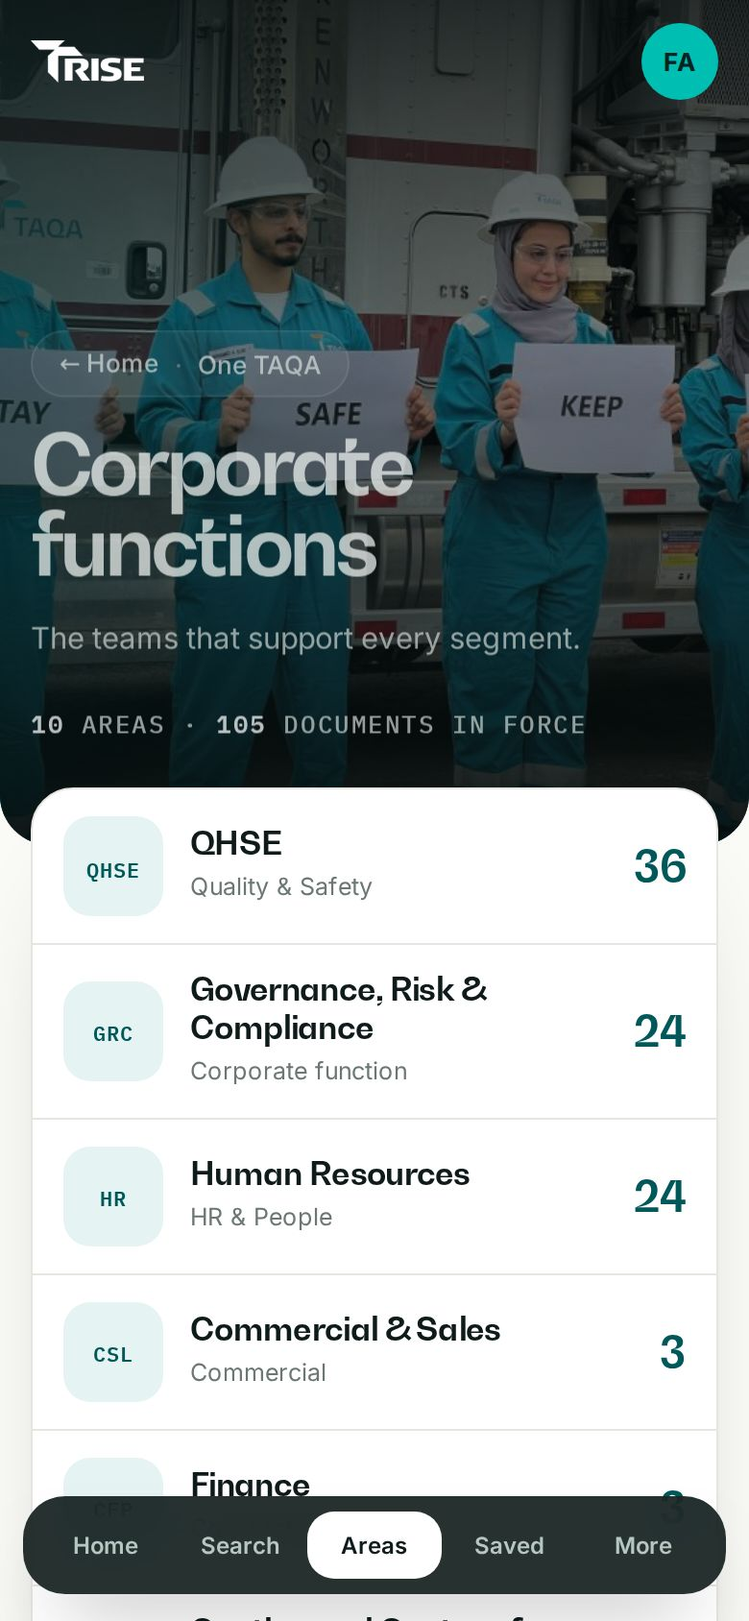
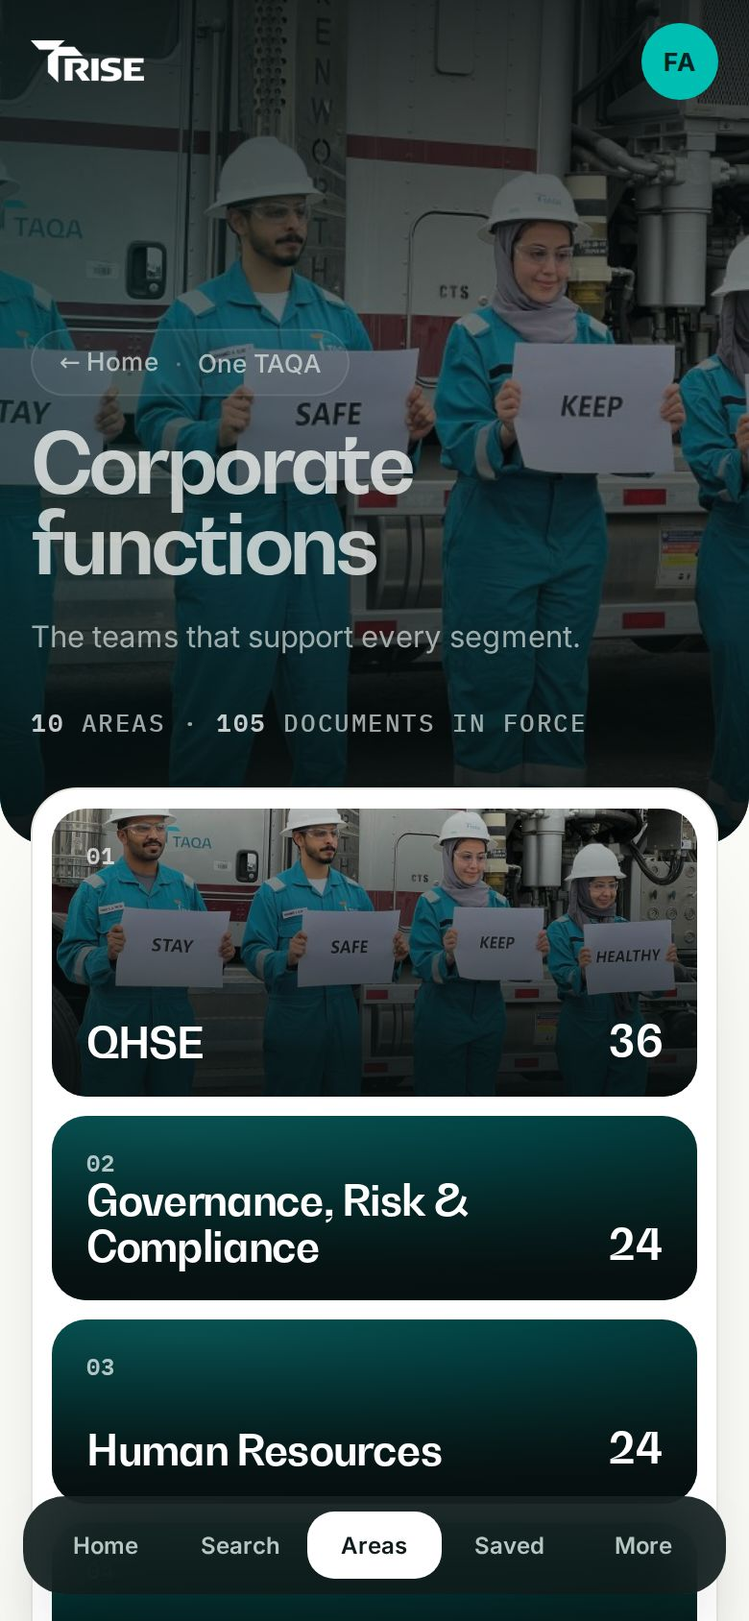
RISE: family pages as a showcase, large list with one photo that changes per area (exploration)
Claude-Session: https://claude.ai/code/session_01SsmAy64nNwXThAWKPA8c7n

diff --git a/docs/design/rise-exploration/register/pages/family-segments.html b/docs/design/rise-exploration/register/pages/family-segments.html
@@ -33,14 +33,72 @@
  .fl.big a{grid-template-columns:1fr auto;gap:12px}.fl.big .th{grid-column:1/-1;width:100%;height:150px}
  .oth{margin-top:30px}
 }
+
+.sx{position:relative;z-index:3;display:grid;grid-template-columns:minmax(0,1fr) minmax(0,1.05fr);gap:40px;margin-top:-36px;padding:34px;border-radius:30px;background:#fff;border:1px solid var(--line);box-shadow:0 30px 60px -40px rgba(14,27,26,.45)}
+.sl{display:flex;flex-direction:column;justify-content:center}
+.sl .it{position:relative;display:grid;grid-template-columns:44px minmax(0,1fr) auto;align-items:baseline;gap:14px;padding:13px 4px;border-bottom:1px solid var(--line);color:#A9B2AF;transition:color .3s,padding .3s}
+.sl .it:last-child{border-bottom:0}
+.sl .i{font:600 12px var(--mono);letter-spacing:.06em;color:#C5CCC9;transition:color .3s}
+.sl b{font:700 clamp(24px,2.3vw,34px)/1.1 var(--display);letter-spacing:-.03em}
+.sl .c{justify-self:end;font:600 14px var(--mono);color:#C5CCC9;transition:color .3s}
+.sl .you{display:inline-block;margin-left:12px;vertical-align:6px;padding:4px 10px;border-radius:999px;background:var(--tealbg);color:var(--teal);font:600 11.5px var(--ui)}
+.sl .it.on{color:var(--ink);padding-left:18px}.sl .it.on .i{color:var(--teal)}.sl .it.on .c{color:var(--teal)}
+.sl .it::before{content:"";position:absolute;left:0;top:50%;width:6px;height:6px;margin-top:-3px;border-radius:50%;background:var(--spark);opacity:0;transform:scale(.4);transition:.3s}
+.sl .it.on::before{opacity:1;transform:none}
+.spn{position:sticky;top:24px;align-self:start;height:640px;border-radius:24px;overflow:hidden;background:#0E1B1A}
+.pn{position:absolute;inset:0;opacity:0;transition:opacity .6s ease;color:#fff}
+.pn.on{opacity:1}
+.pn .ph{position:absolute;inset:0;background:center/cover;transform:scale(1.12);transition:transform 7s cubic-bezier(.2,.6,.2,1)}
+.pn.on .ph{transform:scale(1.02)}
+.pn::after{content:"";position:absolute;inset:0;background:linear-gradient(to bottom,rgba(7,13,13,.25),rgba(7,13,13,.15) 35%,rgba(7,13,13,.92))}
+.pn.np{background:radial-gradient(120% 90% at 20% 10%,#0A6B6C,#00585A 40%,#06302F)}
+.pn.np::after{background:linear-gradient(to bottom,rgba(7,13,13,0) 40%,rgba(7,13,13,.55))}
+.pn .ty{position:absolute;left:30px;top:20px;font:700 170px/1 var(--display);letter-spacing:-.06em;color:rgba(255,255,255,.12)}
+.pn .pc{position:absolute;z-index:2;left:30px;right:30px;bottom:28px;transform:translateY(12px);transition:transform .7s cubic-bezier(.2,.7,.2,1)}
+.pn.on .pc{transform:none}
+.pn .tg{display:inline-block;padding:6px 12px;border-radius:999px;background:rgba(255,255,255,.14);backdrop-filter:blur(10px);font:600 11.5px var(--mono);letter-spacing:.06em;text-transform:uppercase}
+.pn h2{margin-top:14px;font:700 48px/1 var(--display);letter-spacing:-.04em}
+.pn p{margin-top:12px;max-width:44ch;color:#CFDAD7;font-size:15.5px;line-height:1.5}
+.pn .ft{display:flex;align-items:center;gap:16px;margin-top:22px;padding-top:18px;border-top:1px solid rgba(255,255,255,.18)}
+.pn .ft span{font:500 13px var(--mono);letter-spacing:.04em;color:#CFDAD7}.pn .ft b{color:#fff;font-size:16px}
+.pn .ft a{margin-left:auto;padding:12px 20px;border-radius:999px;background:#fff;color:var(--ink);font:600 14px var(--ui)}
+@media (prefers-reduced-motion:reduce){.pn,.pn .ph,.pn .pc,.sl .it{transition:none}}
+@media (max-width:900px){
+ .sx{display:block;padding:10px;border-radius:24px;margin-top:-30px}
+ .spn{display:none}
+ .sl{gap:10px}
+ .sl .it{grid-template-columns:auto 1fr auto;align-items:end;min-height:150px;padding:16px 18px;border:0;border-radius:18px;overflow:hidden;color:#fff;isolation:isolate;background:var(--img) center/cover,#0E1B1A}
+ .sl .it::after{content:"";position:absolute;inset:0;z-index:-1;background:linear-gradient(to top,rgba(7,13,13,.9) 15%,rgba(7,13,13,.25))}
+ .sl .it.np{min-height:96px;background:radial-gradient(120% 90% at 20% 10%,#0A6B6C,#00585A 45%,#06302F)}
+ .sl .it::before{display:none}
+ .sl .it.on{padding-left:18px;color:#fff}
+ .sl .i{position:absolute;top:14px;left:18px;color:rgba(255,255,255,.7)}.sl .it.on .i{color:rgba(255,255,255,.7)}
+ .sl b{grid-column:1/3;font-size:22px;color:#fff}
+ .sl .you{position:absolute;top:12px;right:14px;background:var(--teal2);color:#062221}
+ .sl .c,.sl .it.on .c{grid-column:3;grid-row:1;color:#fff;font:700 22px var(--display)}
+}
 </style></head><body>
 <header class="mx fh"><div class="bg" style="background-image:url(../img/seg-wireline.jpg)"></div>
 <div class="w hn"><a href="bold-mix.html"><img src="../../kit/brand/rise-lockup-header.png" alt="RISE"></a><nav class="links"><a href="bold-mix.html">Home</a><a class="on" href="areas.html">Areas</a><a href="saved.html">Saved</a><a href="ask.html">Ask</a><a href="glossary.html">Glossary</a></nav>
 <span class="sp"></span><a class="up" href="upload.html">Upload</a><span class="av">FA</span></div>
 <div class="w hc"><a class="crumbp" href="bold-mix.html#all">← Home <i>·</i> One TAQA</a>
 <h1>Operational segments</h1><p class="d">The service lines that deliver the work in the field.</p><p class="m"><b>11</b> areas · <b>212</b> documents in force</p></div></header>
-<main class="w"><div class="fl"><a href="seg-coiled-tubing.html"><span class="th" style="background-image:url(../img/seg-coiled-tubing.jpg)"></span><span><b>Coiled Tubing<span class="you">Your area</span></b><span class="s">Operations · CTSS</span></span><span class="n"><b>23</b><span>in force</span></span></a><a href="seg-well-safety.html"><span class="th" style="background-image:url(../img/seg-well-safety.jpg)"></span><span><b>Safety Services</b><span class="s">Safety Critical · WSS</span></span><span class="n"><b>41</b><span>in force</span></span></a><a href="seg-drilling.html"><span class="th" style="background-image:url(../img/seg-drilling.jpg)"></span><span><b>Drilling Services</b><span class="s">Drilling Ops · DSS</span></span><span class="n"><b>34</b><span>in force</span></span></a><a href="seg-fracturing.html"><span class="th" style="background-image:url(../img/seg-fracturing.jpg)"></span><span><b>Fracturing</b><span class="s">Stimulation · FS</span></span><span class="n"><b>31</b><span>in force</span></span></a><a href="seg-inspection.html"><span class="th" style="background-image:url(../img/seg-inspection.jpg)"></span><span><b>Inspection</b><span class="s">Compliance · WIS</span></span><span class="n"><b>24</b><span>in force</span></span></a><a href="seg-well-testing.html"><span class="th" style="background-image:url(../img/seg-well-testing.jpg)"></span><span><b>Well Testing</b><span class="s">Production Testing · WTS</span></span><span class="n"><b>21</b><span>in force</span></span></a><a href="seg-cementing.html"><span class="th" style="background-image:url(../img/seg-cementing.jpg)"></span><span><b>Cementing</b><span class="s">Well Construction · CMT</span></span><span class="n"><b>15</b><span>in force</span></span></a><a href="seg-wireline.html"><span class="th" style="background-image:url(../img/seg-wireline.jpg)"></span><span><b>Wireline Services</b><span class="s">Logging · WS</span></span><span class="n"><b>14</b><span>in force</span></span></a><a href="seg-marine-services.html"><span class="th" style="background-image:url(../img/seg-marine-services.jpg)"></span><span><b>Marine Services</b><span class="s">Marine · MS</span></span><span class="n"><b>3</b><span>in force</span></span></a><a href="seg-slickline.html"><span class="th" style="background-image:url(../img/seg-slickline.jpg)"></span><span><b>Slickline</b><span class="s">Logging · SS</span></span><span class="n"><b>3</b><span>in force</span></span></a><a href="seg-well-completions.html"><span class="th" style="background-image:url(../img/seg-well-completions.jpg)"></span><span><b>Well Completions</b><span class="s">Well Operations · WCS</span></span><span class="n"><b>3</b><span>in force</span></span></a></div>
+<main class="w"><div class="sx"><nav class="sl" aria-label="Operational segments"><a class="it on" href="seg-coiled-tubing.html" data-i="0" style="--img:url(../img/seg-coiled-tubing.jpg)"><span class="i">01</span><b>Coiled Tubing<span class="you">Your area</span></b><span class="c">23</span></a><a class="it" href="seg-well-safety.html" data-i="1" style="--img:url(../img/seg-well-safety.jpg)"><span class="i">02</span><b>Safety Services</b><span class="c">41</span></a><a class="it" href="seg-drilling.html" data-i="2" style="--img:url(../img/seg-drilling.jpg)"><span class="i">03</span><b>Drilling Services</b><span class="c">34</span></a><a class="it" href="seg-fracturing.html" data-i="3" style="--img:url(../img/seg-fracturing.jpg)"><span class="i">04</span><b>Fracturing</b><span class="c">31</span></a><a class="it" href="seg-inspection.html" data-i="4" style="--img:url(../img/seg-inspection.jpg)"><span class="i">05</span><b>Inspection</b><span class="c">24</span></a><a class="it" href="seg-well-testing.html" data-i="5" style="--img:url(../img/seg-well-testing.jpg)"><span class="i">06</span><b>Well Testing</b><span class="c">21</span></a><a class="it" href="seg-cementing.html" data-i="6" style="--img:url(../img/seg-cementing.jpg)"><span class="i">07</span><b>Cementing</b><span class="c">15</span></a><a class="it" href="seg-wireline.html" data-i="7" style="--img:url(../img/seg-wireline.jpg)"><span class="i">08</span><b>Wireline Services</b><span class="c">14</span></a><a class="it" href="seg-marine-services.html" data-i="8" style="--img:url(../img/seg-marine-services.jpg)"><span class="i">09</span><b>Marine Services</b><span class="c">3</span></a><a class="it" href="seg-slickline.html" data-i="9" style="--img:url(../img/seg-slickline.jpg)"><span class="i">10</span><b>Slickline</b><span class="c">3</span></a><a class="it" href="seg-well-completions.html" data-i="10" style="--img:url(../img/seg-well-completions.jpg)"><span class="i">11</span><b>Well Completions</b><span class="c">3</span></a></nav><div class="spn" aria-hidden="true"><div class="pn on" data-i="0"><span class="ph" style="background-image:url(../img/seg-coiled-tubing.jpg)"></span><div class="pc"><span class="tg">Operations</span><h2>Coiled Tubing</h2><p>Coiled tubing operations, equipment specifications, and continuous operation field procedures for all CT units.</p>
+  <div class="ft"><span><b>23</b> documents in force</span><a href="seg-coiled-tubing.html">Open Coiled Tubing</a></div></div></div><div class="pn" data-i="1"><span class="ph" style="background-image:url(../img/seg-well-safety.jpg)"></span><div class="pc"><span class="tg">Safety Critical</span><h2>Safety Services</h2><p>Well control procedures, blowout prevention, emergency response plans, pressure management, and safety management systems.</p>
+  <div class="ft"><span><b>41</b> documents in force</span><a href="seg-well-safety.html">Open Safety Services</a></div></div></div><div class="pn" data-i="2"><span class="ph" style="background-image:url(../img/seg-drilling.jpg)"></span><div class="pc"><span class="tg">Drilling Ops</span><h2>Drilling Services</h2><p>Drilling engineering, well planning, rig operations, mud systems, BHA design, and formation evaluation procedures.</p>
+  <div class="ft"><span><b>34</b> documents in force</span><a href="seg-drilling.html">Open Drilling Services</a></div></div></div><div class="pn" data-i="3"><span class="ph" style="background-image:url(../img/seg-fracturing.jpg)"></span><div class="pc"><span class="tg">Stimulation</span><h2>Fracturing</h2><p>Hydraulic fracturing design, execution procedures, fluid systems, pump operations, and post-job analysis documentation.</p>
+  <div class="ft"><span><b>31</b> documents in force</span><a href="seg-fracturing.html">Open Fracturing</a></div></div></div><div class="pn" data-i="4"><span class="ph" style="background-image:url(../img/seg-inspection.jpg)"></span><div class="pc"><span class="tg">Compliance</span><h2>Inspection</h2><p>Equipment inspection standards, NDT methods, compliance requirements, certification workflows, and audit documentation.</p>
+  <div class="ft"><span><b>24</b> documents in force</span><a href="seg-inspection.html">Open Inspection</a></div></div></div><div class="pn" data-i="5"><span class="ph" style="background-image:url(../img/seg-well-testing.jpg)"></span><div class="pc"><span class="tg">Production Testing</span><h2>Well Testing</h2><p>Well test design, pressure buildup analysis, surface testing equipment operations, multi-rate flow testing, and production optimization procedures.</p>
+  <div class="ft"><span><b>21</b> documents in force</span><a href="seg-well-testing.html">Open Well Testing</a></div></div></div><div class="pn" data-i="6"><span class="ph" style="background-image:url(../img/seg-cementing.jpg)"></span><div class="pc"><span class="tg">Well Construction</span><h2>Cementing</h2><p>Primary and remedial cementing operations, slurry design, quality control standards, and pressure testing procedures.</p>
+  <div class="ft"><span><b>15</b> documents in force</span><a href="seg-cementing.html">Open Cementing</a></div></div></div><div class="pn" data-i="7"><span class="ph" style="background-image:url(../img/seg-wireline.jpg)"></span><div class="pc"><span class="tg">Logging</span><h2>Wireline Services</h2><p>Wireline logging, perforating, and well intervention operations, memory, pump-down, and slickline procedures.</p>
+  <div class="ft"><span><b>14</b> documents in force</span><a href="seg-wireline.html">Open Wireline Services</a></div></div></div><div class="pn" data-i="8"><span class="ph" style="background-image:url(../img/seg-marine-services.jpg)"></span><div class="pc"><span class="tg">Marine</span><h2>Marine Services</h2><p>Vessel operations, cargo handling and offshore marine safety.</p>
+  <div class="ft"><span><b>3</b> documents in force</span><a href="seg-marine-services.html">Open Marine Services</a></div></div></div><div class="pn" data-i="9"><span class="ph" style="background-image:url(../img/seg-slickline.jpg)"></span><div class="pc"><span class="tg">Logging</span><h2>Slickline</h2><p>Slickline conveyance, pressure control and toolstring procedures.</p>
+  <div class="ft"><span><b>3</b> documents in force</span><a href="seg-slickline.html">Open Slickline</a></div></div></div><div class="pn" data-i="10"><span class="ph" style="background-image:url(../img/seg-well-completions.jpg)"></span><div class="pc"><span class="tg">Well Operations</span><h2>Well Completions</h2><p>Completion design, running and commissioning procedures.</p>
+  <div class="ft"><span><b>3</b> documents in force</span><a href="seg-well-completions.html">Open Well Completions</a></div></div></div></div></div>
 <div class="oth">Other families<a href="family-products.html">Products &amp; Technology</a><a href="family-functions.html">Corporate functions</a></div></main>
 <footer class="w foot"><span>RISE · TAQA knowledge</span><span>Operational segments · design exploration</span></footer>
 <nav class="dockn"><a href="bold-mix.html">Home</a><a href="search.html">Search</a><a class="on" href="areas.html">Areas</a><a href="saved.html">Saved</a><a href="more.html">More</a></nav>
+<script>(function(){var it=document.querySelectorAll('.sl .it'),pn=document.querySelectorAll('.pn');
+function set(i){it.forEach(function(e){e.classList.toggle('on',e.dataset.i==i)});pn.forEach(function(e){e.classList.toggle('on',e.dataset.i==i)})}
+it.forEach(function(e){e.addEventListener('mouseenter',function(){set(e.dataset.i)});e.addEventListener('focus',function(){set(e.dataset.i)})});})();</script>
 </body></html>

diff --git a/docs/design/rise-exploration/register/pages/family-functions.html b/docs/design/rise-exploration/register/pages/family-functions.html
@@ -33,14 +33,71 @@
  .fl.big a{grid-template-columns:1fr auto;gap:12px}.fl.big .th{grid-column:1/-1;width:100%;height:150px}
  .oth{margin-top:30px}
 }
+
+.sx{position:relative;z-index:3;display:grid;grid-template-columns:minmax(0,1fr) minmax(0,1.05fr);gap:40px;margin-top:-36px;padding:34px;border-radius:30px;background:#fff;border:1px solid var(--line);box-shadow:0 30px 60px -40px rgba(14,27,26,.45)}
+.sl{display:flex;flex-direction:column;justify-content:center}
+.sl .it{position:relative;display:grid;grid-template-columns:44px minmax(0,1fr) auto;align-items:baseline;gap:14px;padding:13px 4px;border-bottom:1px solid var(--line);color:#A9B2AF;transition:color .3s,padding .3s}
+.sl .it:last-child{border-bottom:0}
+.sl .i{font:600 12px var(--mono);letter-spacing:.06em;color:#C5CCC9;transition:color .3s}
+.sl b{font:700 clamp(24px,2.3vw,34px)/1.1 var(--display);letter-spacing:-.03em}
+.sl .c{justify-self:end;font:600 14px var(--mono);color:#C5CCC9;transition:color .3s}
+.sl .you{display:inline-block;margin-left:12px;vertical-align:6px;padding:4px 10px;border-radius:999px;background:var(--tealbg);color:var(--teal);font:600 11.5px var(--ui)}
+.sl .it.on{color:var(--ink);padding-left:18px}.sl .it.on .i{color:var(--teal)}.sl .it.on .c{color:var(--teal)}
+.sl .it::before{content:"";position:absolute;left:0;top:50%;width:6px;height:6px;margin-top:-3px;border-radius:50%;background:var(--spark);opacity:0;transform:scale(.4);transition:.3s}
+.sl .it.on::before{opacity:1;transform:none}
+.spn{position:sticky;top:24px;align-self:start;height:640px;border-radius:24px;overflow:hidden;background:#0E1B1A}
+.pn{position:absolute;inset:0;opacity:0;transition:opacity .6s ease;color:#fff}
+.pn.on{opacity:1}
+.pn .ph{position:absolute;inset:0;background:center/cover;transform:scale(1.12);transition:transform 7s cubic-bezier(.2,.6,.2,1)}
+.pn.on .ph{transform:scale(1.02)}
+.pn::after{content:"";position:absolute;inset:0;background:linear-gradient(to bottom,rgba(7,13,13,.25),rgba(7,13,13,.15) 35%,rgba(7,13,13,.92))}
+.pn.np{background:radial-gradient(120% 90% at 20% 10%,#0A6B6C,#00585A 40%,#06302F)}
+.pn.np::after{background:linear-gradient(to bottom,rgba(7,13,13,0) 40%,rgba(7,13,13,.55))}
+.pn .ty{position:absolute;left:30px;top:20px;font:700 170px/1 var(--display);letter-spacing:-.06em;color:rgba(255,255,255,.12)}
+.pn .pc{position:absolute;z-index:2;left:30px;right:30px;bottom:28px;transform:translateY(12px);transition:transform .7s cubic-bezier(.2,.7,.2,1)}
+.pn.on .pc{transform:none}
+.pn .tg{display:inline-block;padding:6px 12px;border-radius:999px;background:rgba(255,255,255,.14);backdrop-filter:blur(10px);font:600 11.5px var(--mono);letter-spacing:.06em;text-transform:uppercase}
+.pn h2{margin-top:14px;font:700 48px/1 var(--display);letter-spacing:-.04em}
+.pn p{margin-top:12px;max-width:44ch;color:#CFDAD7;font-size:15.5px;line-height:1.5}
+.pn .ft{display:flex;align-items:center;gap:16px;margin-top:22px;padding-top:18px;border-top:1px solid rgba(255,255,255,.18)}
+.pn .ft span{font:500 13px var(--mono);letter-spacing:.04em;color:#CFDAD7}.pn .ft b{color:#fff;font-size:16px}
+.pn .ft a{margin-left:auto;padding:12px 20px;border-radius:999px;background:#fff;color:var(--ink);font:600 14px var(--ui)}
+@media (prefers-reduced-motion:reduce){.pn,.pn .ph,.pn .pc,.sl .it{transition:none}}
+@media (max-width:900px){
+ .sx{display:block;padding:10px;border-radius:24px;margin-top:-30px}
+ .spn{display:none}
+ .sl{gap:10px}
+ .sl .it{grid-template-columns:auto 1fr auto;align-items:end;min-height:150px;padding:16px 18px;border:0;border-radius:18px;overflow:hidden;color:#fff;isolation:isolate;background:var(--img) center/cover,#0E1B1A}
+ .sl .it::after{content:"";position:absolute;inset:0;z-index:-1;background:linear-gradient(to top,rgba(7,13,13,.9) 15%,rgba(7,13,13,.25))}
+ .sl .it.np{min-height:96px;background:radial-gradient(120% 90% at 20% 10%,#0A6B6C,#00585A 45%,#06302F)}
+ .sl .it::before{display:none}
+ .sl .it.on{padding-left:18px;color:#fff}
+ .sl .i{position:absolute;top:14px;left:18px;color:rgba(255,255,255,.7)}.sl .it.on .i{color:rgba(255,255,255,.7)}
+ .sl b{grid-column:1/3;font-size:22px;color:#fff}
+ .sl .you{position:absolute;top:12px;right:14px;background:var(--teal2);color:#062221}
+ .sl .c,.sl .it.on .c{grid-column:3;grid-row:1;color:#fff;font:700 22px var(--display)}
+}
 </style></head><body>
 <header class="mx fh"><div class="bg" style="background-image:url(../img/seg-qhse.jpg)"></div>
 <div class="w hn"><a href="bold-mix.html"><img src="../../kit/brand/rise-lockup-header.png" alt="RISE"></a><nav class="links"><a href="bold-mix.html">Home</a><a class="on" href="areas.html">Areas</a><a href="saved.html">Saved</a><a href="ask.html">Ask</a><a href="glossary.html">Glossary</a></nav>
 <span class="sp"></span><a class="up" href="upload.html">Upload</a><span class="av">FA</span></div>
 <div class="w hc"><a class="crumbp" href="bold-mix.html#all">← Home <i>·</i> One TAQA</a>
 <h1>Corporate functions</h1><p class="d">The teams that support every segment.</p><p class="m"><b>10</b> areas · <b>105</b> documents in force</p></div></header>
-<main class="w"><div class="fl"><a href="seg-qhse.html"><span class="bd">QHSE</span><span><b>QHSE</b><span class="s">Quality & Safety</span></span><span class="n"><b>36</b><span>in force</span></span></a><a href="seg-cybersecurity.html"><span class="bd">GRC</span><span><b>Governance, Risk & Compliance</b><span class="s">Corporate function</span></span><span class="n"><b>24</b><span>in force</span></span></a><a href="seg-hr.html"><span class="bd">HR</span><span><b>Human Resources</b><span class="s">HR & People</span></span><span class="n"><b>24</b><span>in force</span></span></a><a href="seg-commercial.html"><span class="bd">CSL</span><span><b>Commercial & Sales</b><span class="s">Commercial</span></span><span class="n"><b>3</b><span>in force</span></span></a><a href="seg-finance.html"><span class="bd">CFP</span><span><b>Finance</b><span class="s">Corporate function</span></span><span class="n"><b>3</b><span>in force</span></span></a><a href="seg-geothermal-coe.html"><span class="bd">GEO</span><span><b>Geothermal Center of Excellence</b><span class="s">Advisory</span></span><span class="n"><b>3</b><span>in force</span></span></a><a href="seg-it.html"><span class="bd">IT</span><span><b>Information Technology</b><span class="s">Corporate function</span></span><span class="n"><b>3</b><span>in force</span></span></a><a href="seg-learning-center.html"><span class="bd">LD</span><span><b>Learning and Development</b><span class="s">Training</span></span><span class="n"><b>3</b><span>in force</span></span></a><a href="seg-legal.html"><span class="bd">LGL</span><span><b>Legal</b><span class="s">Corporate function</span></span><span class="n"><b>3</b><span>in force</span></span></a><a href="seg-supply-chain.html"><span class="bd">SC</span><span><b>Supply Chain</b><span class="s">Procurement</span></span><span class="n"><b>3</b><span>in force</span></span></a></div>
+<main class="w"><div class="sx"><nav class="sl" aria-label="Corporate functions"><a class="it on" href="seg-qhse.html" data-i="0" style="--img:url(../img/seg-qhse.jpg)"><span class="i">01</span><b>QHSE</b><span class="c">36</span></a><a class="it np" href="seg-cybersecurity.html" data-i="1"><span class="i">02</span><b>Governance, Risk & Compliance</b><span class="c">24</span></a><a class="it np" href="seg-hr.html" data-i="2"><span class="i">03</span><b>Human Resources</b><span class="c">24</span></a><a class="it np" href="seg-commercial.html" data-i="3"><span class="i">04</span><b>Commercial & Sales</b><span class="c">3</span></a><a class="it np" href="seg-finance.html" data-i="4"><span class="i">05</span><b>Finance</b><span class="c">3</span></a><a class="it" href="seg-geothermal-coe.html" data-i="5" style="--img:url(../img/seg-geothermal-coe.jpg)"><span class="i">06</span><b>Geothermal Center of Excellence</b><span class="c">3</span></a><a class="it np" href="seg-it.html" data-i="6"><span class="i">07</span><b>Information Technology</b><span class="c">3</span></a><a class="it" href="seg-learning-center.html" data-i="7" style="--img:url(../img/seg-learning-center.jpg)"><span class="i">08</span><b>Learning and Development</b><span class="c">3</span></a><a class="it np" href="seg-legal.html" data-i="8"><span class="i">09</span><b>Legal</b><span class="c">3</span></a><a class="it np" href="seg-supply-chain.html" data-i="9"><span class="i">10</span><b>Supply Chain</b><span class="c">3</span></a></nav><div class="spn" aria-hidden="true"><div class="pn on" data-i="0"><span class="ph" style="background-image:url(../img/seg-qhse.jpg)"></span><div class="pc"><span class="tg">Quality & Safety</span><h2>QHSE</h2><p>Quality, Health, Safety and Environmental management standards, risk assessment, compliance, and audit documentation.</p>
+  <div class="ft"><span><b>36</b> documents in force</span><a href="seg-qhse.html">Open QHSE</a></div></div></div><div class="pn np" data-i="1"><span class="ty">GRC</span><div class="pc"><span class="tg">GRC</span><h2>Governance, Risk & Compliance</h2><p>Cybersecurity governance, policies, standards, operational procedures, security awareness programs, and compliance documentation for TAQA\'s IT and OT environments.</p>
+  <div class="ft"><span><b>24</b> documents in force</span><a href="seg-cybersecurity.html">Open Governance, Risk & Compliance</a></div></div></div><div class="pn np" data-i="2"><span class="ty">HR</span><div class="pc"><span class="tg">HR & People</span><h2>Human Resources</h2><p>TAQA HR policies, employee standards, code of conduct, organizational guidelines, and personnel procedures for all employees.</p>
+  <div class="ft"><span><b>24</b> documents in force</span><a href="seg-hr.html">Open Human Resources</a></div></div></div><div class="pn np" data-i="3"><span class="ty">CSL</span><div class="pc"><span class="tg">Commercial</span><h2>Commercial & Sales</h2><p>Bidding, pricing authority and customer contract handover.</p>
+  <div class="ft"><span><b>3</b> documents in force</span><a href="seg-commercial.html">Open Commercial & Sales</a></div></div></div><div class="pn np" data-i="4"><span class="ty">CFP</span><div class="pc"><span class="tg">Finance</span><h2>Finance</h2><p>Financial authority, reporting and expenditure control.</p>
+  <div class="ft"><span><b>3</b> documents in force</span><a href="seg-finance.html">Open Finance</a></div></div></div><div class="pn" data-i="5"><span class="ph" style="background-image:url(../img/seg-geothermal-coe.jpg)"></span><div class="pc"><span class="tg">Advisory</span><h2>Geothermal Center of Excellence</h2><p>Geothermal well design review and resource assessment advisory.</p>
+  <div class="ft"><span><b>3</b> documents in force</span><a href="seg-geothermal-coe.html">Open Geothermal Center of Excellence</a></div></div></div><div class="pn np" data-i="6"><span class="ty">IT</span><div class="pc"><span class="tg">IT</span><h2>Information Technology</h2><p>IT service delivery, change control and platform operations.</p>
+  <div class="ft"><span><b>3</b> documents in force</span><a href="seg-it.html">Open Information Technology</a></div></div></div><div class="pn" data-i="7"><span class="ph" style="background-image:url(../img/seg-learning-center.jpg)"></span><div class="pc"><span class="tg">Training</span><h2>Learning and Development</h2><p>Competency frameworks, training delivery and instructor standards.</p>
+  <div class="ft"><span><b>3</b> documents in force</span><a href="seg-learning-center.html">Open Learning and Development</a></div></div></div><div class="pn np" data-i="8"><span class="ty">LGL</span><div class="pc"><span class="tg">Legal</span><h2>Legal</h2><p>Contracting authority, legal review and compliance obligations.</p>
+  <div class="ft"><span><b>3</b> documents in force</span><a href="seg-legal.html">Open Legal</a></div></div></div><div class="pn np" data-i="9"><span class="ty">SC</span><div class="pc"><span class="tg">Procurement</span><h2>Supply Chain</h2><p>Sourcing, supplier qualification and goods receipt.</p>
+  <div class="ft"><span><b>3</b> documents in force</span><a href="seg-supply-chain.html">Open Supply Chain</a></div></div></div></div></div>
 <div class="oth">Other families<a href="family-segments.html">Operational segments</a><a href="family-products.html">Products &amp; Technology</a></div></main>
 <footer class="w foot"><span>RISE · TAQA knowledge</span><span>Corporate functions · design exploration</span></footer>
 <nav class="dockn"><a href="bold-mix.html">Home</a><a href="search.html">Search</a><a class="on" href="areas.html">Areas</a><a href="saved.html">Saved</a><a href="more.html">More</a></nav>
+<script>(function(){var it=document.querySelectorAll('.sl .it'),pn=document.querySelectorAll('.pn');
+function set(i){it.forEach(function(e){e.classList.toggle('on',e.dataset.i==i)});pn.forEach(function(e){e.classList.toggle('on',e.dataset.i==i)})}
+it.forEach(function(e){e.addEventListener('mouseenter',function(){set(e.dataset.i)});e.addEventListener('focus',function(){set(e.dataset.i)})});})();</script>
 </body></html>

diff --git a/docs/design/rise-exploration/register/pages/family-products.html b/docs/design/rise-exploration/register/pages/family-products.html
@@ -33,14 +33,64 @@
  .fl.big a{grid-template-columns:1fr auto;gap:12px}.fl.big .th{grid-column:1/-1;width:100%;height:150px}
  .oth{margin-top:30px}
 }
+
+.sx{position:relative;z-index:3;display:grid;grid-template-columns:minmax(0,1fr) minmax(0,1.05fr);gap:40px;margin-top:-36px;padding:34px;border-radius:30px;background:#fff;border:1px solid var(--line);box-shadow:0 30px 60px -40px rgba(14,27,26,.45)}
+.sl{display:flex;flex-direction:column;justify-content:center}
+.sl .it{position:relative;display:grid;grid-template-columns:44px minmax(0,1fr) auto;align-items:baseline;gap:14px;padding:13px 4px;border-bottom:1px solid var(--line);color:#A9B2AF;transition:color .3s,padding .3s}
+.sl .it:last-child{border-bottom:0}
+.sl .i{font:600 12px var(--mono);letter-spacing:.06em;color:#C5CCC9;transition:color .3s}
+.sl b{font:700 clamp(24px,2.3vw,34px)/1.1 var(--display);letter-spacing:-.03em}
+.sl .c{justify-self:end;font:600 14px var(--mono);color:#C5CCC9;transition:color .3s}
+.sl .you{display:inline-block;margin-left:12px;vertical-align:6px;padding:4px 10px;border-radius:999px;background:var(--tealbg);color:var(--teal);font:600 11.5px var(--ui)}
+.sl .it.on{color:var(--ink);padding-left:18px}.sl .it.on .i{color:var(--teal)}.sl .it.on .c{color:var(--teal)}
+.sl .it::before{content:"";position:absolute;left:0;top:50%;width:6px;height:6px;margin-top:-3px;border-radius:50%;background:var(--spark);opacity:0;transform:scale(.4);transition:.3s}
+.sl .it.on::before{opacity:1;transform:none}
+.spn{position:sticky;top:24px;align-self:start;height:640px;border-radius:24px;overflow:hidden;background:#0E1B1A}
+.pn{position:absolute;inset:0;opacity:0;transition:opacity .6s ease;color:#fff}
+.pn.on{opacity:1}
+.pn .ph{position:absolute;inset:0;background:center/cover;transform:scale(1.12);transition:transform 7s cubic-bezier(.2,.6,.2,1)}
+.pn.on .ph{transform:scale(1.02)}
+.pn::after{content:"";position:absolute;inset:0;background:linear-gradient(to bottom,rgba(7,13,13,.25),rgba(7,13,13,.15) 35%,rgba(7,13,13,.92))}
+.pn.np{background:radial-gradient(120% 90% at 20% 10%,#0A6B6C,#00585A 40%,#06302F)}
+.pn.np::after{background:linear-gradient(to bottom,rgba(7,13,13,0) 40%,rgba(7,13,13,.55))}
+.pn .ty{position:absolute;left:30px;top:20px;font:700 170px/1 var(--display);letter-spacing:-.06em;color:rgba(255,255,255,.12)}
+.pn .pc{position:absolute;z-index:2;left:30px;right:30px;bottom:28px;transform:translateY(12px);transition:transform .7s cubic-bezier(.2,.7,.2,1)}
+.pn.on .pc{transform:none}
+.pn .tg{display:inline-block;padding:6px 12px;border-radius:999px;background:rgba(255,255,255,.14);backdrop-filter:blur(10px);font:600 11.5px var(--mono);letter-spacing:.06em;text-transform:uppercase}
+.pn h2{margin-top:14px;font:700 48px/1 var(--display);letter-spacing:-.04em}
+.pn p{margin-top:12px;max-width:44ch;color:#CFDAD7;font-size:15.5px;line-height:1.5}
+.pn .ft{display:flex;align-items:center;gap:16px;margin-top:22px;padding-top:18px;border-top:1px solid rgba(255,255,255,.18)}
+.pn .ft span{font:500 13px var(--mono);letter-spacing:.04em;color:#CFDAD7}.pn .ft b{color:#fff;font-size:16px}
+.pn .ft a{margin-left:auto;padding:12px 20px;border-radius:999px;background:#fff;color:var(--ink);font:600 14px var(--ui)}
+@media (prefers-reduced-motion:reduce){.pn,.pn .ph,.pn .pc,.sl .it{transition:none}}
+@media (max-width:900px){
+ .sx{display:block;padding:10px;border-radius:24px;margin-top:-30px}
+ .spn{display:none}
+ .sl{gap:10px}
+ .sl .it{grid-template-columns:auto 1fr auto;align-items:end;min-height:150px;padding:16px 18px;border:0;border-radius:18px;overflow:hidden;color:#fff;isolation:isolate;background:var(--img) center/cover,#0E1B1A}
+ .sl .it::after{content:"";position:absolute;inset:0;z-index:-1;background:linear-gradient(to top,rgba(7,13,13,.9) 15%,rgba(7,13,13,.25))}
+ .sl .it.np{min-height:96px;background:radial-gradient(120% 90% at 20% 10%,#0A6B6C,#00585A 45%,#06302F)}
+ .sl .it::before{display:none}
+ .sl .it.on{padding-left:18px;color:#fff}
+ .sl .i{position:absolute;top:14px;left:18px;color:rgba(255,255,255,.7)}.sl .it.on .i{color:rgba(255,255,255,.7)}
+ .sl b{grid-column:1/3;font-size:22px;color:#fff}
+ .sl .you{position:absolute;top:12px;right:14px;background:var(--teal2);color:#062221}
+ .sl .c,.sl .it.on .c{grid-column:3;grid-row:1;color:#fff;font:700 22px var(--display)}
+}
 </style></head><body>
 <header class="mx fh"><div class="bg" style="background-image:url(../img/seg-pt-intervention-coe.jpg)"></div>
 <div class="w hn"><a href="bold-mix.html"><img src="../../kit/brand/rise-lockup-header.png" alt="RISE"></a><nav class="links"><a href="bold-mix.html">Home</a><a class="on" href="areas.html">Areas</a><a href="saved.html">Saved</a><a href="ask.html">Ask</a><a href="glossary.html">Glossary</a></nav>
 <span class="sp"></span><a class="up" href="upload.html">Upload</a><span class="av">FA</span></div>
 <div class="w hc"><a class="crumbp" href="bold-mix.html#all">← Home <i>·</i> One TAQA</a>
 <h1>Products &amp; Technology</h1><p class="d">Centres of Excellence that design and build TAQA’s tools.</p><p class="m"><b>3</b> areas · <b>23</b> documents in force</p></div></header>
-<main class="w"><div class="fl big"><a href="seg-pt-drilling-coe.html"><span class="th" style="background-image:url(../img/seg-pt-drilling-coe.jpg)"></span><span><b>Drilling Solutions</b><span class="s">Edmonton, Canada · Centre of Excellence</span></span><span class="n"><b>8</b><span>in force</span></span></a><a href="seg-pt-intervention-coe.html"><span class="th" style="background-image:url(../img/seg-pt-intervention-coe.jpg)"></span><span><b>Well Intervention</b><span class="s">Stavanger, Norway · Centre of Excellence</span></span><span class="n"><b>8</b><span>in force</span></span></a><a href="seg-pt-completions-coe.html"><span class="th" style="background-image:url(../img/taqa-hero-2.jpg)"></span><span><b>Well Completions</b><span class="s">Aberdeen, United Kingdom · Centre of Excellence</span></span><span class="n"><b>7</b><span>in force</span></span></a></div>
+<main class="w"><div class="sx"><nav class="sl" aria-label="Products &amp; Technology"><a class="it on" href="seg-pt-drilling-coe.html" data-i="0" style="--img:url(../img/seg-pt-drilling-coe.jpg)"><span class="i">01</span><b>Drilling Solutions</b><span class="c">8</span></a><a class="it" href="seg-pt-intervention-coe.html" data-i="1" style="--img:url(../img/seg-pt-intervention-coe.jpg)"><span class="i">02</span><b>Well Intervention</b><span class="c">8</span></a><a class="it" href="seg-pt-completions-coe.html" data-i="2" style="--img:url(../img/taqa-hero-2.jpg)"><span class="i">03</span><b>Well Completions</b><span class="c">7</span></a></nav><div class="spn" aria-hidden="true"><div class="pn on" data-i="0"><span class="ph" style="background-image:url(../img/seg-pt-drilling-coe.jpg)"></span><div class="pc"><span class="tg">Edmonton, Canada</span><h2>Drilling Solutions</h2><p>Downhole drilling tools, drilling optimisation products and tool redress.</p>
+  <div class="ft"><span><b>8</b> documents in force</span><a href="seg-pt-drilling-coe.html">Open Drilling Solutions</a></div></div></div><div class="pn" data-i="1"><span class="ph" style="background-image:url(../img/seg-pt-intervention-coe.jpg)"></span><div class="pc"><span class="tg">Stavanger, Norway</span><h2>Well Intervention</h2><p>Through-tubing intervention tools, tractors, fishing and milling assemblies.</p>
+  <div class="ft"><span><b>8</b> documents in force</span><a href="seg-pt-intervention-coe.html">Open Well Intervention</a></div></div></div><div class="pn" data-i="2"><span class="ph" style="background-image:url(../img/taqa-hero-2.jpg)"></span><div class="pc"><span class="tg">Aberdeen, United Kingdom</span><h2>Well Completions</h2><p>Completions technology: inflow control, swellable packers and sand screens.</p>
+  <div class="ft"><span><b>7</b> documents in force</span><a href="seg-pt-completions-coe.html">Open Well Completions</a></div></div></div></div></div>
 <div class="oth">Other families<a href="family-segments.html">Operational segments</a><a href="family-functions.html">Corporate functions</a></div></main>
 <footer class="w foot"><span>RISE · TAQA knowledge</span><span>Products & Technology · design exploration</span></footer>
 <nav class="dockn"><a href="bold-mix.html">Home</a><a href="search.html">Search</a><a class="on" href="areas.html">Areas</a><a href="saved.html">Saved</a><a href="more.html">More</a></nav>
+<script>(function(){var it=document.querySelectorAll('.sl .it'),pn=document.querySelectorAll('.pn');
+function set(i){it.forEach(function(e){e.classList.toggle('on',e.dataset.i==i)});pn.forEach(function(e){e.classList.toggle('on',e.dataset.i==i)})}
+it.forEach(function(e){e.addEventListener('mouseenter',function(){set(e.dataset.i)});e.addEventListener('focus',function(){set(e.dataset.i)})});})();</script>
 </body></html>

diff --git a/docs/design/rise-exploration/register/build/b_family.py b/docs/design/rise-exploration/register/build/b_family.py
@@ -50,6 +50,55 @@ CSS = '''
 }
 '''
 
+CSS += """
+.sx{position:relative;z-index:3;display:grid;grid-template-columns:minmax(0,1fr) minmax(0,1.05fr);gap:40px;margin-top:-36px;padding:34px;border-radius:30px;background:#fff;border:1px solid var(--line);box-shadow:0 30px 60px -40px rgba(14,27,26,.45)}
+.sl{display:flex;flex-direction:column;justify-content:center}
+.sl .it{position:relative;display:grid;grid-template-columns:44px minmax(0,1fr) auto;align-items:baseline;gap:14px;padding:13px 4px;border-bottom:1px solid var(--line);color:#A9B2AF;transition:color .3s,padding .3s}
+.sl .it:last-child{border-bottom:0}
+.sl .i{font:600 12px var(--mono);letter-spacing:.06em;color:#C5CCC9;transition:color .3s}
+.sl b{font:700 clamp(24px,2.3vw,34px)/1.1 var(--display);letter-spacing:-.03em}
+.sl .c{justify-self:end;font:600 14px var(--mono);color:#C5CCC9;transition:color .3s}
+.sl .you{display:inline-block;margin-left:12px;vertical-align:6px;padding:4px 10px;border-radius:999px;background:var(--tealbg);color:var(--teal);font:600 11.5px var(--ui)}
+.sl .it.on{color:var(--ink);padding-left:18px}.sl .it.on .i{color:var(--teal)}.sl .it.on .c{color:var(--teal)}
+.sl .it::before{content:"";position:absolute;left:0;top:50%;width:6px;height:6px;margin-top:-3px;border-radius:50%;background:var(--spark);opacity:0;transform:scale(.4);transition:.3s}
+.sl .it.on::before{opacity:1;transform:none}
+.spn{position:sticky;top:24px;align-self:start;height:640px;border-radius:24px;overflow:hidden;background:#0E1B1A}
+.pn{position:absolute;inset:0;opacity:0;transition:opacity .6s ease;color:#fff}
+.pn.on{opacity:1}
+.pn .ph{position:absolute;inset:0;background:center/cover;transform:scale(1.12);transition:transform 7s cubic-bezier(.2,.6,.2,1)}
+.pn.on .ph{transform:scale(1.02)}
+.pn::after{content:"";position:absolute;inset:0;background:linear-gradient(to bottom,rgba(7,13,13,.25),rgba(7,13,13,.15) 35%,rgba(7,13,13,.92))}
+.pn.np{background:radial-gradient(120% 90% at 20% 10%,#0A6B6C,#00585A 40%,#06302F)}
+.pn.np::after{background:linear-gradient(to bottom,rgba(7,13,13,0) 40%,rgba(7,13,13,.55))}
+.pn .ty{position:absolute;left:30px;top:20px;font:700 170px/1 var(--display);letter-spacing:-.06em;color:rgba(255,255,255,.12)}
+.pn .pc{position:absolute;z-index:2;left:30px;right:30px;bottom:28px;transform:translateY(12px);transition:transform .7s cubic-bezier(.2,.7,.2,1)}
+.pn.on .pc{transform:none}
+.pn .tg{display:inline-block;padding:6px 12px;border-radius:999px;background:rgba(255,255,255,.14);backdrop-filter:blur(10px);font:600 11.5px var(--mono);letter-spacing:.06em;text-transform:uppercase}
+.pn h2{margin-top:14px;font:700 48px/1 var(--display);letter-spacing:-.04em}
+.pn p{margin-top:12px;max-width:44ch;color:#CFDAD7;font-size:15.5px;line-height:1.5}
+.pn .ft{display:flex;align-items:center;gap:16px;margin-top:22px;padding-top:18px;border-top:1px solid rgba(255,255,255,.18)}
+.pn .ft span{font:500 13px var(--mono);letter-spacing:.04em;color:#CFDAD7}.pn .ft b{color:#fff;font-size:16px}
+.pn .ft a{margin-left:auto;padding:12px 20px;border-radius:999px;background:#fff;color:var(--ink);font:600 14px var(--ui)}
+@media (prefers-reduced-motion:reduce){.pn,.pn .ph,.pn .pc,.sl .it{transition:none}}
+@media (max-width:900px){
+ .sx{display:block;padding:10px;border-radius:24px;margin-top:-30px}
+ .spn{display:none}
+ .sl{gap:10px}
+ .sl .it{grid-template-columns:auto 1fr auto;align-items:end;min-height:150px;padding:16px 18px;border:0;border-radius:18px;overflow:hidden;color:#fff;isolation:isolate;background:var(--img) center/cover,#0E1B1A}
+ .sl .it::after{content:"";position:absolute;inset:0;z-index:-1;background:linear-gradient(to top,rgba(7,13,13,.9) 15%,rgba(7,13,13,.25))}
+ .sl .it.np{min-height:96px;background:radial-gradient(120% 90% at 20% 10%,#0A6B6C,#00585A 45%,#06302F)}
+ .sl .it::before{display:none}
+ .sl .it.on{padding-left:18px;color:#fff}
+ .sl .i{position:absolute;top:14px;left:18px;color:rgba(255,255,255,.7)}.sl .it.on .i{color:rgba(255,255,255,.7)}
+ .sl b{grid-column:1/3;font-size:22px;color:#fff}
+ .sl .you{position:absolute;top:12px;right:14px;background:var(--teal2);color:#062221}
+ .sl .c,.sl .it.on .c{grid-column:3;grid-row:1;color:#fff;font:700 22px var(--display)}
+}
+"""
+JS = """(function(){var it=document.querySelectorAll('.sl .it'),pn=document.querySelectorAll('.pn');
+function set(i){it.forEach(function(e){e.classList.toggle('on',e.dataset.i==i)});pn.forEach(function(e){e.classList.toggle('on',e.dataset.i==i)})}
+it.forEach(function(e){e.addEventListener('mouseenter',function(){set(e.dataset.i)});e.addEventListener('focus',function(){set(e.dataset.i)})});})();"""
+
 def build(g, slug, title, desc, hero):
     keys = sorted([k for k in S.ALLK if SEGS[k]['group'] == g], key=lambda k: (k != 'coiled-tubing', -count_for(k)))
     docs = sum(count_for(k) for k in keys)
@@ -64,19 +113,32 @@ def build(g, slug, title, desc, hero):
         name = s['name'].replace(' Center of Excellence', '') if g == 'product' else s['name']
         you = '<span class="you">Your area</span>' if k == 'coiled-tubing' else ''
         rows += f'''<a href="seg-{k}.html">{pic}<span><b>{name}{you}</b><span class="s">{sub}</span></span><span class="n"><b>{count_for(k)}</b><span>in force</span></span></a>'''
+    sl, pn = '', ''
+    for i, k in enumerate(keys):
+        s_ = SEGS[k]; tag = S.META.get(k, ('', ''))[0]; desc_ = S.META.get(k, ('', ''))[1]
+        im = img_of(k) if (g != 'function' or k in ('qhse', 'learning-center', 'geothermal-coe')) else None
+        name = s_['name'].replace(' Center of Excellence', '') if g == 'product' else s_['name']
+        on = ' on' if i == 0 else ''
+        bgst = f' style="--img:url(../img/{im})"' if im else ''
+        you = '<span class="you">Your area</span>' if k == 'coiled-tubing' else ''
+        sl += f'''<a class="it{on}{'' if im else ' np'}" href="seg-{k}.html" data-i="{i}"{bgst}><span class="i">{i + 1:02d}</span><b>{name}{you}</b><span class="c">{count_for(k)}</span></a>'''
+        art = f'<span class="ph" style="background-image:url(../img/{im})"></span>' if im else f'<span class="ty">{s_["spl"]}</span>'
+        pn += f'''<div class="pn{on}{'' if im else ' np'}" data-i="{i}">{art}<div class="pc"><span class="tg">{tag}</span><h2>{name}</h2><p>{desc_}</p>
+  <div class="ft"><span><b>{count_for(k)}</b> documents in force</span><a href="seg-{k}.html">Open {name}</a></div></div></div>'''
     others = ''.join(f'<a href="family-{sl}.html">{t}</a>' for gg, sl, t, *_ in FAMS if gg != g)
     body = f'''<header class="mx fh"><div class="bg" style="background-image:url(../img/{hero})"></div>
 <div class="w hn"><a href="bold-mix.html"><img src="../../kit/brand/rise-lockup-header.png" alt="RISE"></a><nav class="links"><a href="bold-mix.html">Home</a><a class="on" href="areas.html">Areas</a><a href="saved.html">Saved</a><a href="ask.html">Ask</a><a href="glossary.html">Glossary</a></nav>
 <span class="sp"></span><a class="up" href="upload.html">Upload</a><span class="av">FA</span></div>
 <div class="w hc"><a class="crumbp" href="bold-mix.html#all">← Home <i>·</i> One TAQA</a>
 <h1>{title}</h1><p class="d">{desc}</p><p class="m"><b>{len(keys)}</b> areas · <b>{docs}</b> documents in force</p></div></header>
-<main class="w"><div class="fl{" big" if g == "product" else ""}">{rows}</div>
+<main class="w"><div class="sx"><nav class="sl" aria-label="{title}">{sl}</nav><div class="spn" aria-hidden="true">{pn}</div></div>
 <div class="oth">Other families{others}</div></main>
 <footer class="w foot"><span>RISE · TAQA knowledge</span><span>{title.replace("&amp;", "&")} · design exploration</span></footer>
 <nav class="dockn"><a href="bold-mix.html">Home</a><a href="search.html">Search</a><a class="on" href="areas.html">Areas</a><a href="saved.html">Saved</a><a href="more.html">More</a></nav>'''
     html = f'''<!doctype html><html lang="en"><head><meta charset="utf-8"><meta name="viewport" content="width=device-width,initial-scale=1">
 <title>RISE · {title.replace("&amp;", "&")}</title><link rel="stylesheet" href="../../kit/fonts.css"><link rel="stylesheet" href="../css/nova.css"><style>{CSS}</style></head><body>
 {body}
+<script>{JS}</script>
 </body></html>'''
     open(os.path.join(PAGES, f'family-{slug}.html'), 'w').write(html)
 
